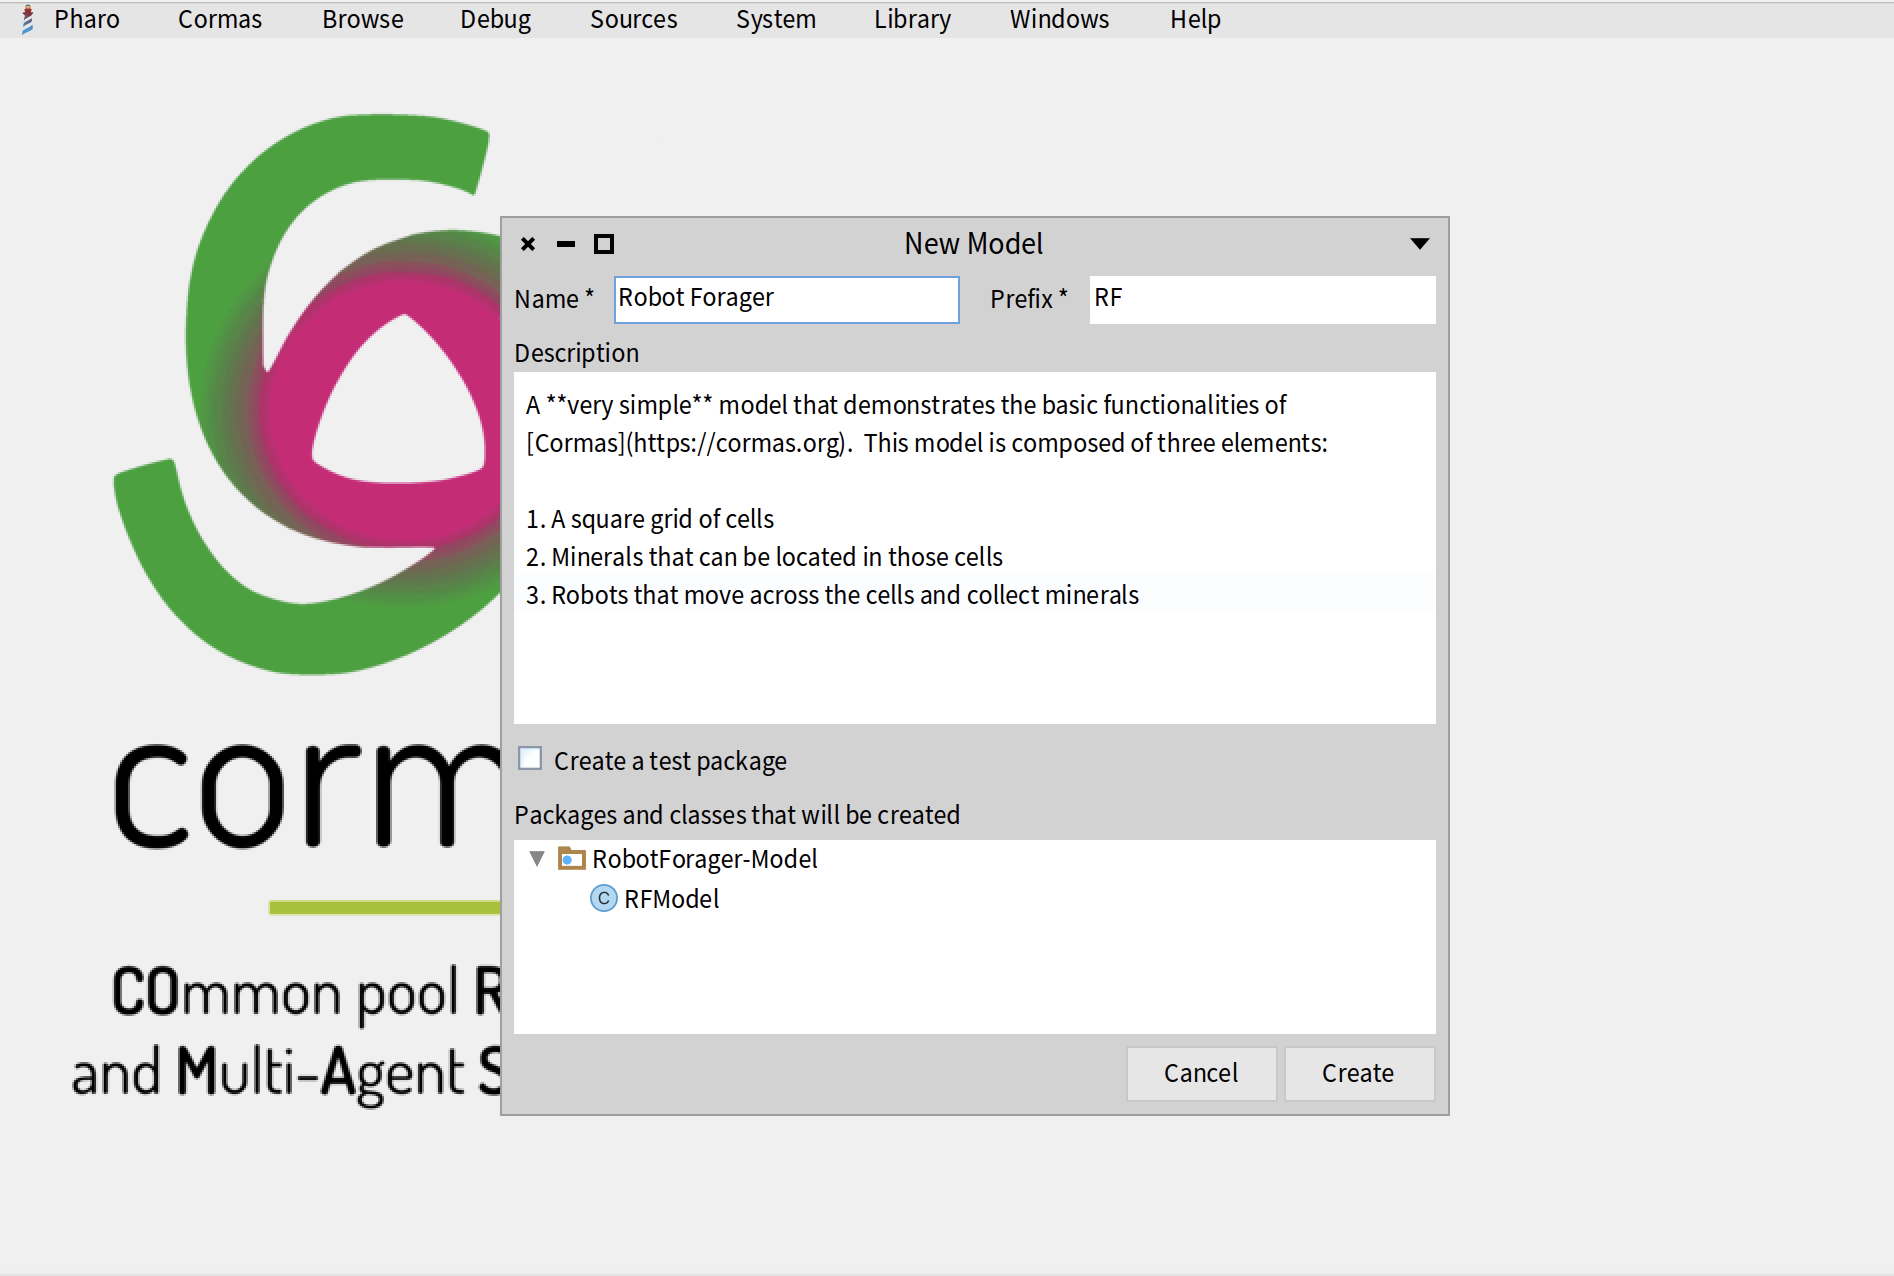
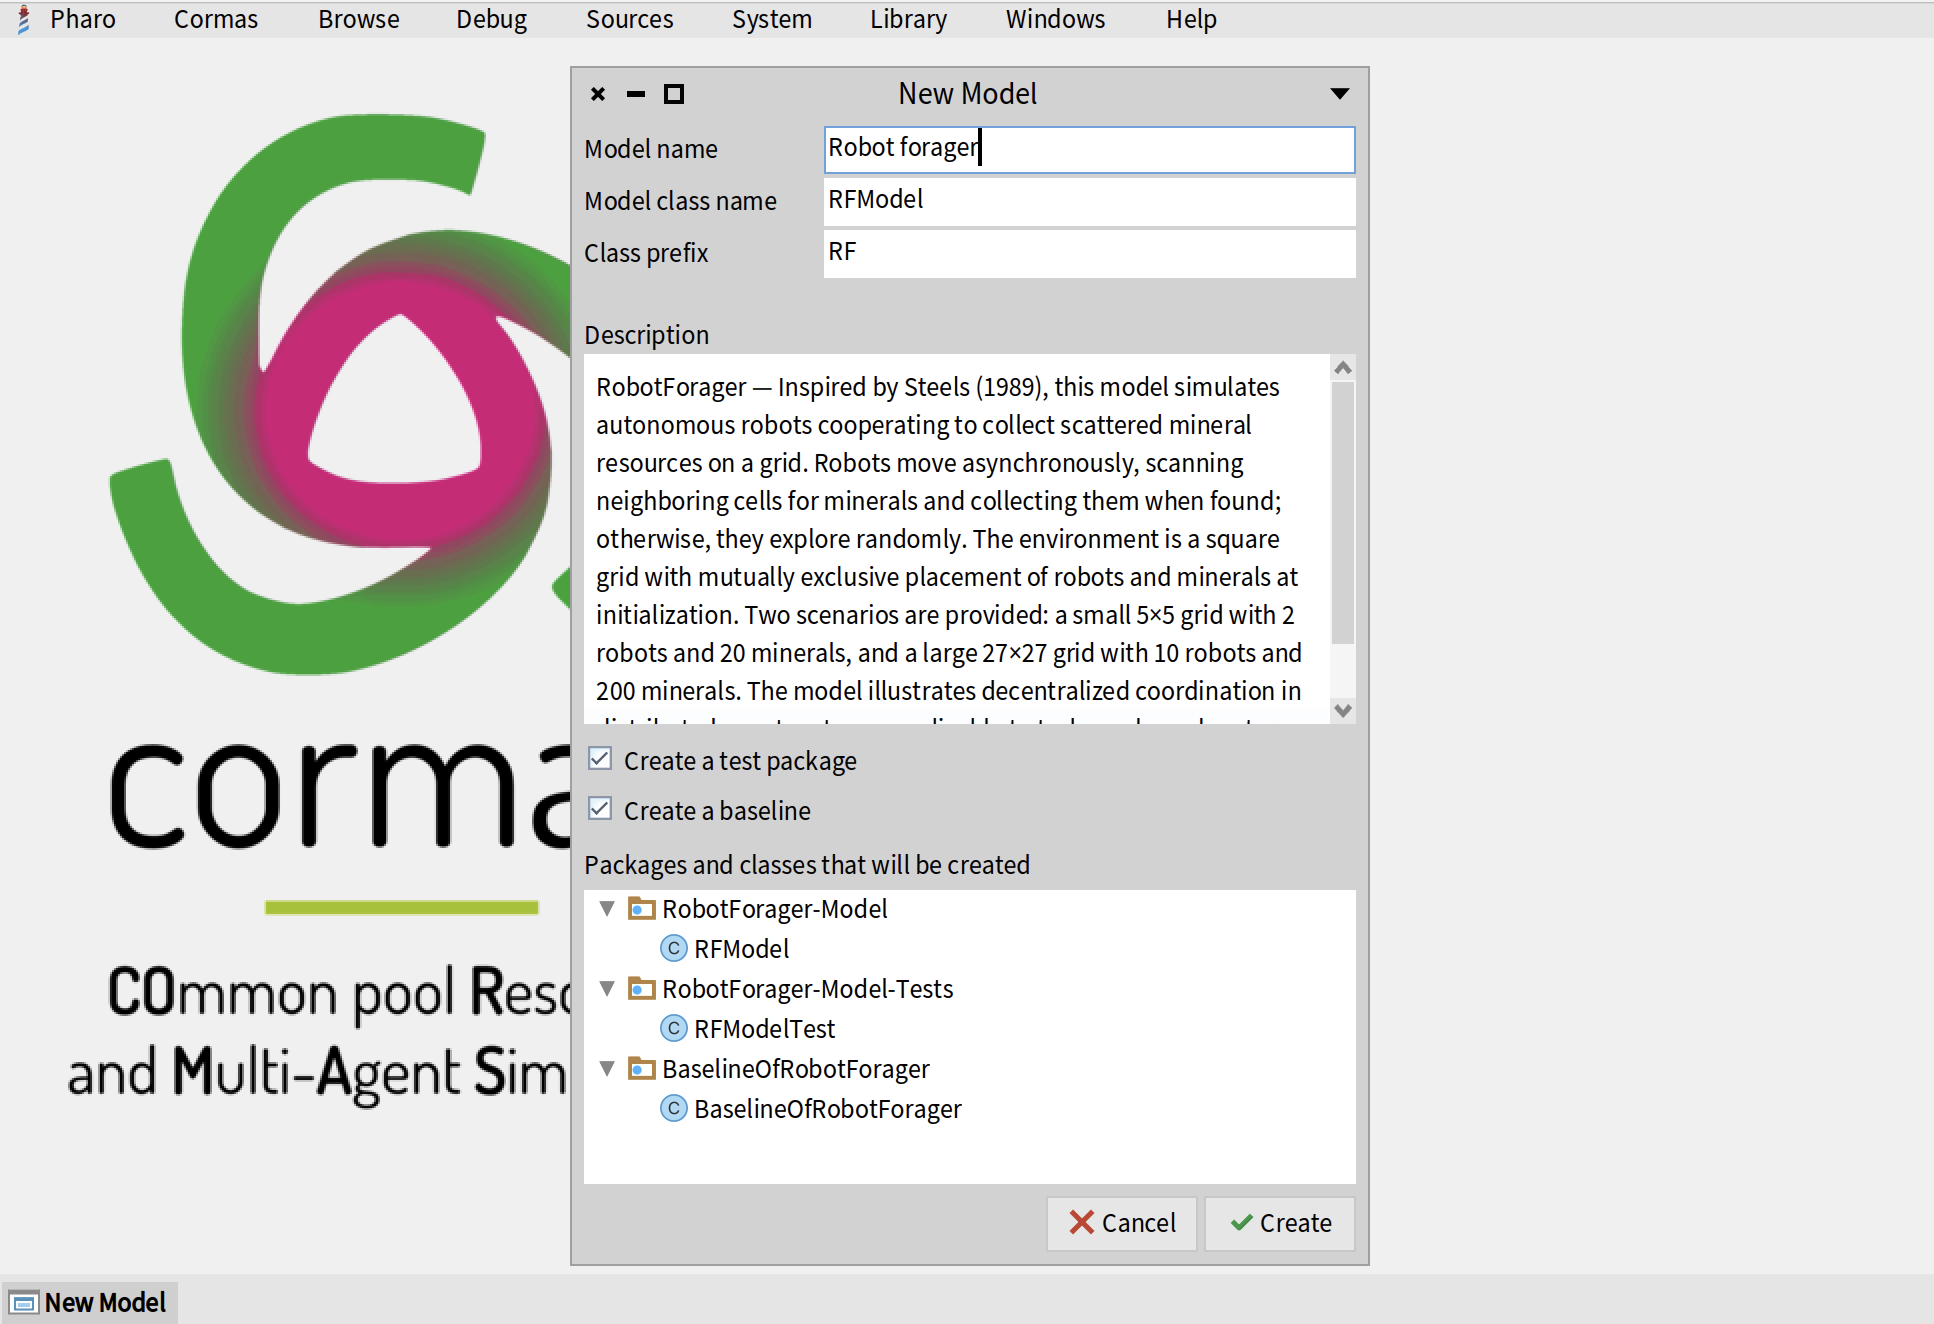
Small update to the robot forager tutorial

diff --git a/docs/robot-forager.md b/docs/robot-forager.md
@@ -53,11 +53,11 @@ If you haven't donne so already, you can [Install Cormas](install) then open a C
 
 ![New model menu](_media/robot-forager/1-new-model-menu.png)
 
-Type the name of your model. In our case, we will call it _"Robot Forager"_. All classes in Pharo exist in the same namespace, which means that every class must have a unique name. To ensure this, we follow a good practice of adding a project-specific prefix to every class name. Cormas will automatically suggest a prefix for your model classes, in our case, it suggests _"RF"_. Feel free to edit this prefix. In the bottom part of the window, you will see the packages and classes that will be generated for you. By default, Cormas will also generate test classes, but we will not use them in this tutorial, which is why we uncheck the _"Create a test package"_ checkbox. We also add a simple description for our model using [Microdown](https://github.com/pillar-markup/Microdown) (you can also write it in Markdown or in plain text).
+Type the name of your model. In our case, we will call it _"Robot forager"_. All classes in Pharo exist in the same namespace, which means that every class must have a unique name. To ensure this, we follow a good practice of adding a project-specific prefix to every class name. Cormas will automatically suggest a prefix for your model classes, in our case, it suggests _"RF"_. Feel free to edit this prefix. Then, Cormas will also propose a name for the model class. Typically, it's prefix + the word _"Model"_, so in our case, the class name will be _"RFModel"_. In the bottom part of the window, you will see the packages and classes that will be generated for you. By default, Cormas will also generate an empty test class and a baseline (baseline is a special class that specifies what are the packages and external dependencies of your project and how it can be loaded into another Pharo image). We also add a simple description for our model using [Microdown](https://github.com/pillar-markup/Microdown) (you can also write it in Markdown or in plain text).
 
 ![](_media/robot-forager/2-new-model.png)
 
-Once you click on _"Create"_ button, Cormas will generate a package `RobotForager-Model` and a class `RFModel`. If everything goes well, a System Browser will open on this new class. Now we can start coding!
+Once you click on _"Create"_ button, Cormas will generate a package `RobotForager-Model` with a class `RFModel`, a package `RobotForager-Model-Tests` with a class `RFModelTest`, and a package `BaselineOfRobotForager` and a class with the same name. If everything goes well, a System Browser will open on `RFModel` class. Now we can start coding!
 
 ![](_media/robot-forager/3-new-model-browser.png)
 
@@ -71,43 +71,15 @@ Alsternatively, you can edit the definition of any existing class in the bottom 
 
 ![](_media/robot-forager/5-new-cell-class.png)
 
-In our case, the cell class will be called `RFCell` (remember to use the prefix!) and it will be the subclass of `CMSpatialEntityElement` - a default superclass for spatial cells in Cormas.
+In our case, the cell class will be called `RFCell` (remember to use the prefix!) and it will be the subclass of `CMCell` - a default superclass for spatial cells in Cormas.
 
 ```smalltalk
-CMSpatialEntityElement << #RFCell
+CMCell << #RFCell
 	slots: {};
 	package: 'RobotForager-Model'
 ```
 
 In our model, cells will do nothing, which is why we do not need to implement any methods for this class. By default, cells will be represented as gray squares.
-
-We must now create a collection of cells in our model. To do that, we must edit a class definition of `RFModel` and add a new slot (instance variable). We will call it `cells` but you can choose any name you like.
-
-```smalltalk
-CMAbstractModel << #RFModel
-    slots: { #cells };
-    package: 'RobotForager-Model'
-```
-
-Now we will create some methods in `RFModel` class. To add a new method, click on _"instance side"_ in the third pane of the System Browser and then edit the method template in the bottom part. You can also create a new mthod by editing the code of any existing method. As soon as you change the name, the new method will be created.
-
-![](_media/robot-forager/6-new-method.png)
-
-First, we create an `initialize` method and initialize the `cells` variable with an empty collection. Cormas will populate this collection with actual cells once we define a spatial grid in the next section. Remember that the `RFModel >>` part is just an indication for you that this method should belond to the `RFModel` class. You must not type this part in the System Browser.
-
-```smalltalk
-RFModel >> initialize
-	super initialize.
-	cells := OrderedCollection new.
-```
-
-Now we must create a getter accessor for the `cells` collection. We add a pragma `<getterFor: #ClassName>` to tell Cormas that this getter is linked to the `RFCell` class.
-
-```smalltalk
-RFModel >> cells
-	<getterFor: #RFCell>
-	^ cells
-```
 
 ## Step 3. Create a grid
 
